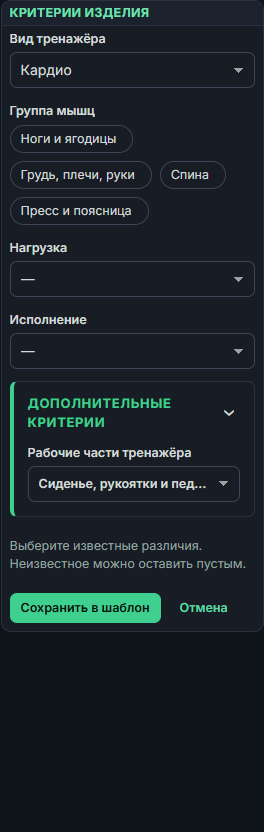
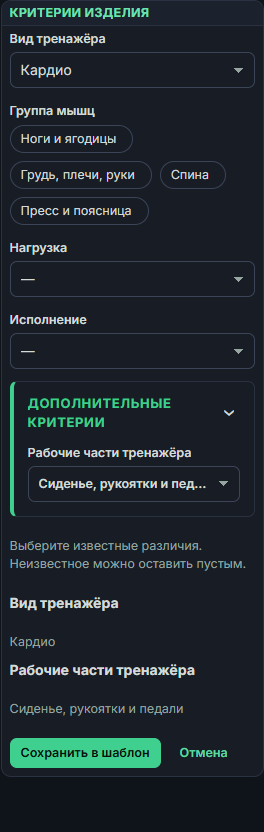
docs: принять интерфейс нового упрощённого паспорта
Полные значения критериев и понятная подпись обложки подтверждены в обеих темах. История отказов и границы browser-only проверки сохранены. Серверный отпечаток совпадает с полным прогоном; общий кандидат со счетами проходит отдельный full.

Класс: M
Дизайнер: принято
Дизайнер принял позже: a9a34376
Дизайнер принял позже: 0b29c55e
Проверка: PWA415/415, guards359/359, imports364/0; 3761unit/654e2e PASS по серверному отпечатку; UI-REVIEW PASS.
⚠ Недоделано: общий выпуск после combinedQA C165; 43 рабочих словарных добавления ожидают конкретного разрешения после отказа автоматической проверки.
🏢 Продолжаю работать на работе

diff --git a/docs/crew/C163-new-product-passport-funnel/UI-REVIEW.md b/docs/crew/C163-new-product-passport-funnel/UI-REVIEW.md
@@ -1,12 +1,12 @@
 # C163 — визуальная приёмка
 
-**FAIL, 19.11.2026.** Выбранное значение критерия обрезано, пользователь не видит его целиком перед сохранением. Стенд `localhost:3102`, копия от 18.11, HEAD `f76489b9` + рабочие изменения, 1920×1080 по [журналу](evidence/acceptance-c163-results.json). Действия выполнял агент доступа; снимки открыты дизайнером.
+**PASS, 19.11.2026. Дизайнер: принято** в назначенном UI-объёме. Ранее был FAIL из-за обрезанного значения критерия; повторные кадры подтверждают исправление. Стенд `localhost:3102`, копия от 18.11, исходно HEAD `f76489b9` + рабочие изменения, итоговый код `0b29c55e`; окно 1920×1080 по [журналу](evidence/acceptance-c163-results.json). Действия выполнял агент доступа; снимки открыты дизайнером.
 
 | Состояние | Наблюдение |
 |---|---|
-| Резервная обложка | [Светлая](evidence/acceptance-c163-cover-light.png), [тёмная](evidence/acceptance-c163-cover-dark.png): общий вид подписан «из паспорта», расположен в карточке изделия; действие принятия отдельно от загрузки. Журнал сообщает успешное принятие. Подпись кнопки «← своей обложкой» неполная: по ней трудно понять действие; рекомендовано «Сделать обложкой изделия». |
+| Резервная обложка | [Светлая](evidence/acceptance-c163-cover-light.png), [тёмная](evidence/acceptance-c163-cover-dark.png): общий вид подписан «из паспорта», расположен в карточке изделия; действие принятия отдельно от загрузки. Журнал сообщает успешное принятие. Прежняя неясная подпись заменена на «Сделать обложкой изделия»: повторные кадры [светлая](evidence/acceptance-c163-cover-caption-light.png), [тёмная](evidence/acceptance-c163-cover-caption-dark.png) показывают подпись в браузерной проекции, без повторного принятия; фактическое принятие проверено ранее. |
 | Увеличение | Прежний [снимок](evidence/acceptance-c163-cover-zoom.png) показывал обрезанный низ. После исправления [светлый](evidence/acceptance-c163-final-zoom-light.png) и [тёмный](evidence/acceptance-c163-final-zoom-dark.png) снимки показывают весь рисунок и кнопку закрытия с фокусом. |
 | Справочник TRN | [Светлая](evidence/acceptance-c163-dictionary-trn-light.png), [тёмная](evidence/acceptance-c163-dictionary-trn-dark.png): видимый фрагмент читаем, чужих пустых разделов в нём не видно. [Журнал](evidence/acceptance-c163-dict-results.json) сообщает 0 настоящих дублей и наличие ветки велотренажёра; один снимок не подтверждает весь список. |
-| Настройка/части | Просмотрены [настройка светлая](evidence/acceptance-c163-resume-setup-light.png), [тёмная](evidence/acceptance-c163-resume-setup-dark.png), [части светлая](evidence/acceptance-c163-resume-parts-light.png), [тёмная](evidence/acceptance-c163-resume-parts-dark.png). Шаги и готовое назначение видимы, четыре части и фраза читаются, ручной ввод не навязан. Раскрытые критерии: [светлая](evidence/acceptance-c163-expanded-criteria-light.png), [тёмная](evidence/acceptance-c163-expanded-criteria-dark.png). Выбранное значение «Рабочие части тренажёра» обрезано до «Сиденье, рукоятки и пед…» — полный вариант перед сохранением не виден. Координатор уведомлён. |
+| Настройка/части | Просмотрены [настройка светлая](evidence/acceptance-c163-resume-setup-light.png), [тёмная](evidence/acceptance-c163-resume-setup-dark.png), [части светлая](evidence/acceptance-c163-resume-parts-light.png), [тёмная](evidence/acceptance-c163-resume-parts-dark.png). Шаги и готовое назначение видимы, четыре части и фраза читаются, ручной ввод не навязан. Прежнее замечание об обрезке выбранного значения закрыто: в повторных кадрах раскрытых критериев [светлая](evidence/acceptance-c163-expanded-criteria-light.png), [тёмная](evidence/acceptance-c163-expanded-criteria-dark.png) полное значение показано перед сохранением отдельной строкой. |
 
-Мобильный вариант отложен владельцем. После исправления выбранного значения нужен повторный просмотр в обеих темах; исправленную подпись обложки также следует подтвердить свежим кадром.
+Мобильный вариант отложен владельцем. Визуальных блокирующих замечаний в назначенном объёме не осталось. Дизайнер принял позже: `a9a34376`, `0b29c55e`.

diff --git a/docs/crew/C163-new-product-passport-funnel/QA-REPORT.md b/docs/crew/C163-new-product-passport-funnel/QA-REPORT.md
@@ -5,8 +5,8 @@
 | TypeScript и ESLint | PASS, exit 0 на финальном коде C163 поверх `f76489b9` после P1. ESLint прошёл для 11 изменённых серверных файлов. Ошибка компиляции из промежуточного фотоотчёта устранена. |
 | Полный unit | После P1 · 365 наборов, 3761 тест PASS, exit 0. До изменения P1 · 365 наборов и 3758 тестов PASS. Прогоны с локальным HTTP вне Windows sandbox. |
 | Полный e2e | Финальный отдельный прогон после P1 · 84 набора, 654 теста PASS, 12 штатных пропусков T26, exit 0, 542,308 с. Docker MongoDB 4.4.30, только `datacore-test`. Контейнер удалён после прогона. Ранний прогон стартовал до P1 и тоже завершился exit 0 с теми же числами. |
-| PWA и пульт | После исправления форм соединений и элементов и унификации просмотра фото полный PWA 409/409 PASS, 0 пропусков, exit 0. Guards 359/359, пульт 22/22. Импорты и синтаксис 364 файлов без ошибок. Design-lint exit 0, новых замечаний 0. Прогоны 395/395, 401/401 и 403/403 сохранены отдельно. |
-| Chrome | Выбор назначения, вида, критериев и частей, справочник и образец PASS. PDF содержит автоописание и три рисунка на 13 страницах A5. Образец без номера и нового документа. Выпуски №611–613, настройки 1066 и счётчики прошли контроль. В отдельной проверке клавиатуры возврат фокуса к фото пока не подтверждён. [Воронка](evidence/acceptance-c163-results.json) · [Справочник](evidence/acceptance-c163-dict-results.json) · [Образец](evidence/acceptance-c163-resume-sample-results.json) · [Клавиатура](evidence/acceptance-c163-cover-keyboard-results.json). |
+| PWA | На опубликованном `0b29c55e` PWA 415/415 PASS, 0 пропусков, exit 0. Guards 359/359. Импорты и синтаксис 364 файлов без ошибок. Design-lint exit 0, новых замечаний 0. Предыдущие прогоны, включая PWA 409/409 и пульт 22/22, сохранены отдельно. |
+| Chrome | Выбор назначения, вида, критериев и частей, справочник и образец PASS. PDF содержит автоописание и три рисунка на 13 страницах A5. Образец без номера и нового документа. Выпуски №611–613, настройки 1066 и счётчики прошли контроль. Полное резюме критериев видно в обеих темах. В последнем отдельном сценарии возврат фокуса к своему фото и подпись резервной обложки ещё требуют подтверждения. [Воронка](evidence/acceptance-c163-results.json) · [Справочник](evidence/acceptance-c163-dict-results.json) · [Образец](evidence/acceptance-c163-resume-sample-results.json) · [Отдельная проверка](evidence/acceptance-c163-final-ro-visual-results.json). |
 
 Критерии и источники · [план приёмки](TEST-PLAN.md), [сервер](BACKEND-REPORT.md), [интерфейс](FRONTEND-REPORT.md), [резервное фото](PHOTO-REPORT.md).
 
@@ -18,4 +18,6 @@
 
 Сохранение соединений и элементов проверено через форму с готовым массивом и прежней JSON-строкой, по два случая на поле. [Регрессии формы](../../../backend/pwa/sections/passports/book-autofill.test.mjs#L326).
 
-Журналы и SHA-256 · `tools/logs/c163-*.log`. Финальный e2e · `c163-e2e-final.log`, клиентские проверки · `c163-*-release.log`, предыдущие клиентские прогоны · `c163-*-criteria-final.log` и `c163-*-quality-final.log`. Автоматические серверные проверки выполнялись в отдельной тестовой базе.
+На `0b29c55e` регрессии покрывают полное резюме выбранных значений и возврат фокуса в галерее. SHA-256 всех 1244 серверных файлов совпал с результатом полного e2e. [Резюме](../../../backend/pwa/sections/passports/book-setup.test.mjs#L160) · [Галерея](../../../backend/pwa/ui/kit/gallery.test.mjs).
+
+Журналы и SHA-256 · `tools/logs/c163-*.log`. Финальный e2e · `c163-e2e-final.log`, клиентские проверки опубликованной версии · `c163-*-head0b29c55e.log`, предыдущий прогон · `c163-*-release.log`. Автоматические серверные проверки выполнялись в отдельной тестовой базе.

diff --git a/docs/crew/C163-new-product-passport-funnel/REPORT.md b/docs/crew/C163-new-product-passport-funnel/REPORT.md
@@ -1,0 +1,25 @@
+# C163. Новое изделие и упрощённый паспорт
+
+Код сохранён в опубликованной ветке codex/wip-2026-11-19-c163, исходник 0b29c55e. Назначенный интерфейс принят дизайнером после адресной пересъёмки обеих тем. Это статус перед единым выпуском с C165; версия сайта здесь пока не утверждена.
+
+## Как заполнять
+
+1. Открыть изделие → Паспорт → шаблон → Упрощённый.
+2. В «Подготовке паспорта» выбрать тип и вид изделия, затем известные критерии. Выбор сохраняется у изделия.
+3. Назначение предлагается из применимой ветки справочника. Краткое описание берётся из готовой ветки или собирается по выбранным частям. Собственную формулировку вводят отдельным действием.
+4. Проверить рисунки, размеры, массу и действительно нужные сведения эксплуатации/монтажа. Неизвестные безопасные характеристики система не выдумывает.
+5. Посмотреть образец без номера. Выпуск экземпляра с номером — отдельное действие.
+
+Общий вид из паспортных рисунков виден в карточке, когда собственного главного фото нет. «Сделать обложкой изделия» явно принимает его в собственные фотографии. Уже выбранная обложка не заменяется автоматически.
+
+## Проверено
+
+Сервер: 3761 unit, 654 e2e PASS; 12 штатных T26 SKIP. Новый тестовый шаблон прошёл до PDF-образца: 13 страниц, три рисунка, грамотная фраза, без нового паспорта и номера. Старые паспорта и производственные карточки не переписаны. Точные журналы — QA-REPORT.md и evidence/.
+
+Исправлены причины ложного отсутствия текста и ложных дублей: учитываются категория, область действия и условия ветки. Одинаковые слова при разных условиях не объединяются. Пара BLG имеет разные ссылки и сохранена.
+
+## Справочники и ограничения
+
+На сайте уже добавлены четыре подтверждённые записи для велотренажёра. Дополнительный пакет 43 записей успешно прошёл QA и отдельные GET всех тел. Автоматическая проверка отклонила рабочую команду до запуска и потребовала разрешение владельца именно на этот пакет. Запрос владельцу оставлен; обход не выполняется. Детали и перечень — DICTIONARY-READBACK.md и DICTIONARY-SUPPLEMENT.json.
+
+Мобильная приёмка отложена владельцем. Обычный полный паспорт развивается отдельно. Существующие выпущенные документы сохраняют прежнее содержимое.

diff --git a/docs/BACKLOG.md b/docs/BACKLOG.md
@@ -6,10 +6,13 @@
 
 ## ▶ Сейчас (обновляет координатор; новая сессия начинает отсюда)
 
-**▶ 19.11 — C163, новое изделие1068 из Inventor:**
-- [ ] Проверить источник главного фото и порядок воронки short, отделить ручные исключения от справочников.
-- [ ] Исправить подтверждённое, проверить новый пустой сценарий и повтор, сохранить уроки.
-- [ ] Принять UI/сервер, commit/push; следующий выпуск последовательно после финансового чата.
+**▶ 19.11 — C163, новое изделие из Inventor:**
+- [x] Исправлены резервная обложка, начало с вида/критериев, готовое назначение, применимые части и ложные дыры/дубли. Архитектор PASS; 3761 unit/654 e2e PASS.
+- [x] QA-копия: создание шаблона с нуля → критерии → автоописание → повтор → образец 13 страниц/3 рисунка без номера и экземпляра. Исходные FAIL и причины сохранены в C163.
+- [x] Код опубликован: `codex/wip-2026-11-19-c163`, `0b29c55e`; передан финансовому чату для общего полного прогона. Финальные UI-исправления входят в hash; дизайнер PASS после повторных кадров обеих тем, PWA415/guards359/import364.
+- [x] Итоговая визуальная приёмка C163 PASS; финансовый чат объединил исходники в 5c0d346c и проводит общий unit/e2e/PWA full.
+- [ ] Один штатный выпуск общего принятого кандидата после окончания записи счетов; затем контроль версии, commit/push результата.
+- [ ] Дополнительные 43 справочные записи проверены и применены на QA; рабочее добавление остановлено автоматической проверкой до команды. Запрошено конкретное разрешение владельца. Четыре записи для велотренажёра уже на сайте. Не обходить отказ.
 **▶ 19.11 — C158/C162, финансовые поля и гибкие статьи (приоритет владельца):**
 - [x] Реализовать C158/C162 в отдельной копии; архитектура и адресная визуальная приёмка PASS. Сохранено fb3ab5e4, сведено с main0e54edef вb809fed4 без потери паспортовC155/C161, каталогаC159 иC160.
 - [x] Полный QA объединённого исходника:3735unit/653e2ePASS,12T26SKIP; PWA378полнымпрогоном/362imports. OpenAPI525paths;34+4functionalUIстыкаPASS, ограниченияstaticкопиивCOMBINED-SMOKE.md.

diff --git a/docs/roles/maps/qa.md b/docs/roles/maps/qa.md
@@ -64,6 +64,6 @@
 
 - C163 (2026-11-19) · новое изделие и short. `backend/test/e2e/passport-presentation.e2e-spec.ts:107` проверяет реальный CAS критериев и настроек изделия. `backend/src/modules/product-passport/passport-from-product.spec.ts` проверяет живого родителя, нормализованную категорию и приоритет своих элементов. После P1 отдельно прошёл полный e2e, SHA 1244 файлов до/после одинаков. `docs/crew/C163-new-product-passport-funnel/QA-REPORT.md:3`. Коммит — координатор. Карта обновлена.
 
-- C163 · клиентские регрессии. `backend/pwa/sections/passports/book-setup.test.mjs:82` проверяет общие признаки, применимость дополнительных, скрытый прежний выбор и ошибку дополнительного чтения. `backend/pwa/sections/passports/book-autofill.test.mjs:326` проверяет сохранение соединений и элементов из массива и прежней JSON-строки. PWA 409/409, пульт 22/22, серверный отпечаток совпал с e2e. `docs/crew/C163-new-product-passport-funnel/QA-REPORT.md:8`. Коммит — координатор. Карта обновлена.
+- C163 · клиентские регрессии. `backend/pwa/sections/passports/book-setup.test.mjs:82` проверяет применимость критериев, `:160` — полное резюме выбора. `backend/pwa/sections/passports/book-autofill.test.mjs:326` проверяет сохранение соединений и элементов из массива и прежней JSON-строки. Опубликованный `0b29c55e`: PWA 415/415, серверный отпечаток совпал с e2e. `docs/crew/C163-new-product-passport-funnel/QA-REPORT.md:8`. Коммит — координатор. Карта обновлена.
 
 - C162 final b809fed4: `docs/crew/C162-money-articles-structure/QA-FINAL-REPORT.md:3`, `evidence/QA-FINAL-RESULTS.json:1`; `c162-final-manifest-before/after.json`1706SHA2bb9d76edad67bc920a9c68f525a66873a51d0ff886f1c54aaf34768cf91484f неизменен. Fullunit364/3735,fulle2e84/653 сT26 1/12SKIP,PWAall65files378/378PASS однимrawrun;357guards/362imports0. Новых source/fixture правок/повторов не потребовалось; raw/JSON/UTC/exit/hash c162-final-* с начала. Не подменять этим designer/live acceptance. Старые смешанные и rawFAIL прогоны сохранены исторически. Карта обновлена.

diff --git a/docs/TEST-LOG.md b/docs/TEST-LOG.md
@@ -236,3 +236,5 @@
 | 2026-11-19 | C163 · финальные фильтр формы и показ резервного фото | импорты и синтаксис 364/0, design-lint 0 новых | PWA 403/403, guards 359/359, exit 0 | Отпечаток 1244 серверных файлов совпал с финальным e2e. Действуют 3761 unit / 654 e2e PASS. | Логи `tools/logs/c163-*-quality-final.log`, PWA 401/401 сохранён отдельно. [C163 QA](crew/C163-new-product-passport-funnel/QA-REPORT.md). |
 
 | 2026-11-19 | C163 · сохранение соединений и элементов, просмотр фото | импорты и синтаксис 364/0, design-lint 0 новых | PWA 409/409, guards 359/359, пульт 22/22 | SHA 1244 серверных файлов совпал с финальным e2e. Действуют 3761 unit / 654 e2e ✅ PASS. | Браузерный образец PASS, 13 страниц, три рисунка, автоописание, без номера и экземпляра. Логи `tools/logs/c163-*-release.log`, ранее 403/403 сохранено отдельно. [C163 QA](crew/C163-new-product-passport-funnel/QA-REPORT.md). |
+
+| 2026-11-19 | C163 · опубликованный `0b29c55e` | TypeScript 0 по совпавшему серверному отпечатку | 365 наборов / 3761 PASS по совпавшему отпечатку | e2e ✅ 84 набора / 654 PASS, 12 штатных пропусков T26. SHA-256 1244 серверных файлов совпал с полным прогоном. | PWA 415/415, guards 359/359, импорты 364/0, design-lint 0 новых. Логи `tools/logs/c163-*-head0b29c55e.log`; прежний PWA 409/409 сохранён отдельно. [C163 QA](crew/C163-new-product-passport-funnel/QA-REPORT.md). |

diff --git a/docs/crew/C163-new-product-passport-funnel/FOCUS-AUDIT.md b/docs/crew/C163-new-product-passport-funnel/FOCUS-AUDIT.md
@@ -18,3 +18,7 @@
 - Исправление gallery.js: connected original first; иначе тот же src только внутри сохранённого connected aside[data-k="drawer"].
 - Таймеров/глобального fallback нет. Unit 7/7, imports 364/0, pwa-guards 359/359 PASS; код не коммитился.
 - Browser proof координатору: detached replacement, click-close/Escape, обе темы; wrong asset/dead owner не получают фокус.
+
+## Подтверждение после исправления
+
+В `evidence/acceptance-c163-focus-lifecycle-caption-results.json` без съёмки между Enter и Escape: исходный IMG отключён уже при открытом просмотре, drawer остаётся тем же подключённым узлом, src текущего фото совпадает. После Escape и следующего кадра активен текущий видимый IMG. Это подтверждает замену дочернего фото, а не исчезновение панели. Общий viewer восстановил логический фокус по тому же src внутри исходного drawer. Исходные FAIL сохранены; снимок с временным privacy-стилем не используется как единственное доказательство фокуса.
